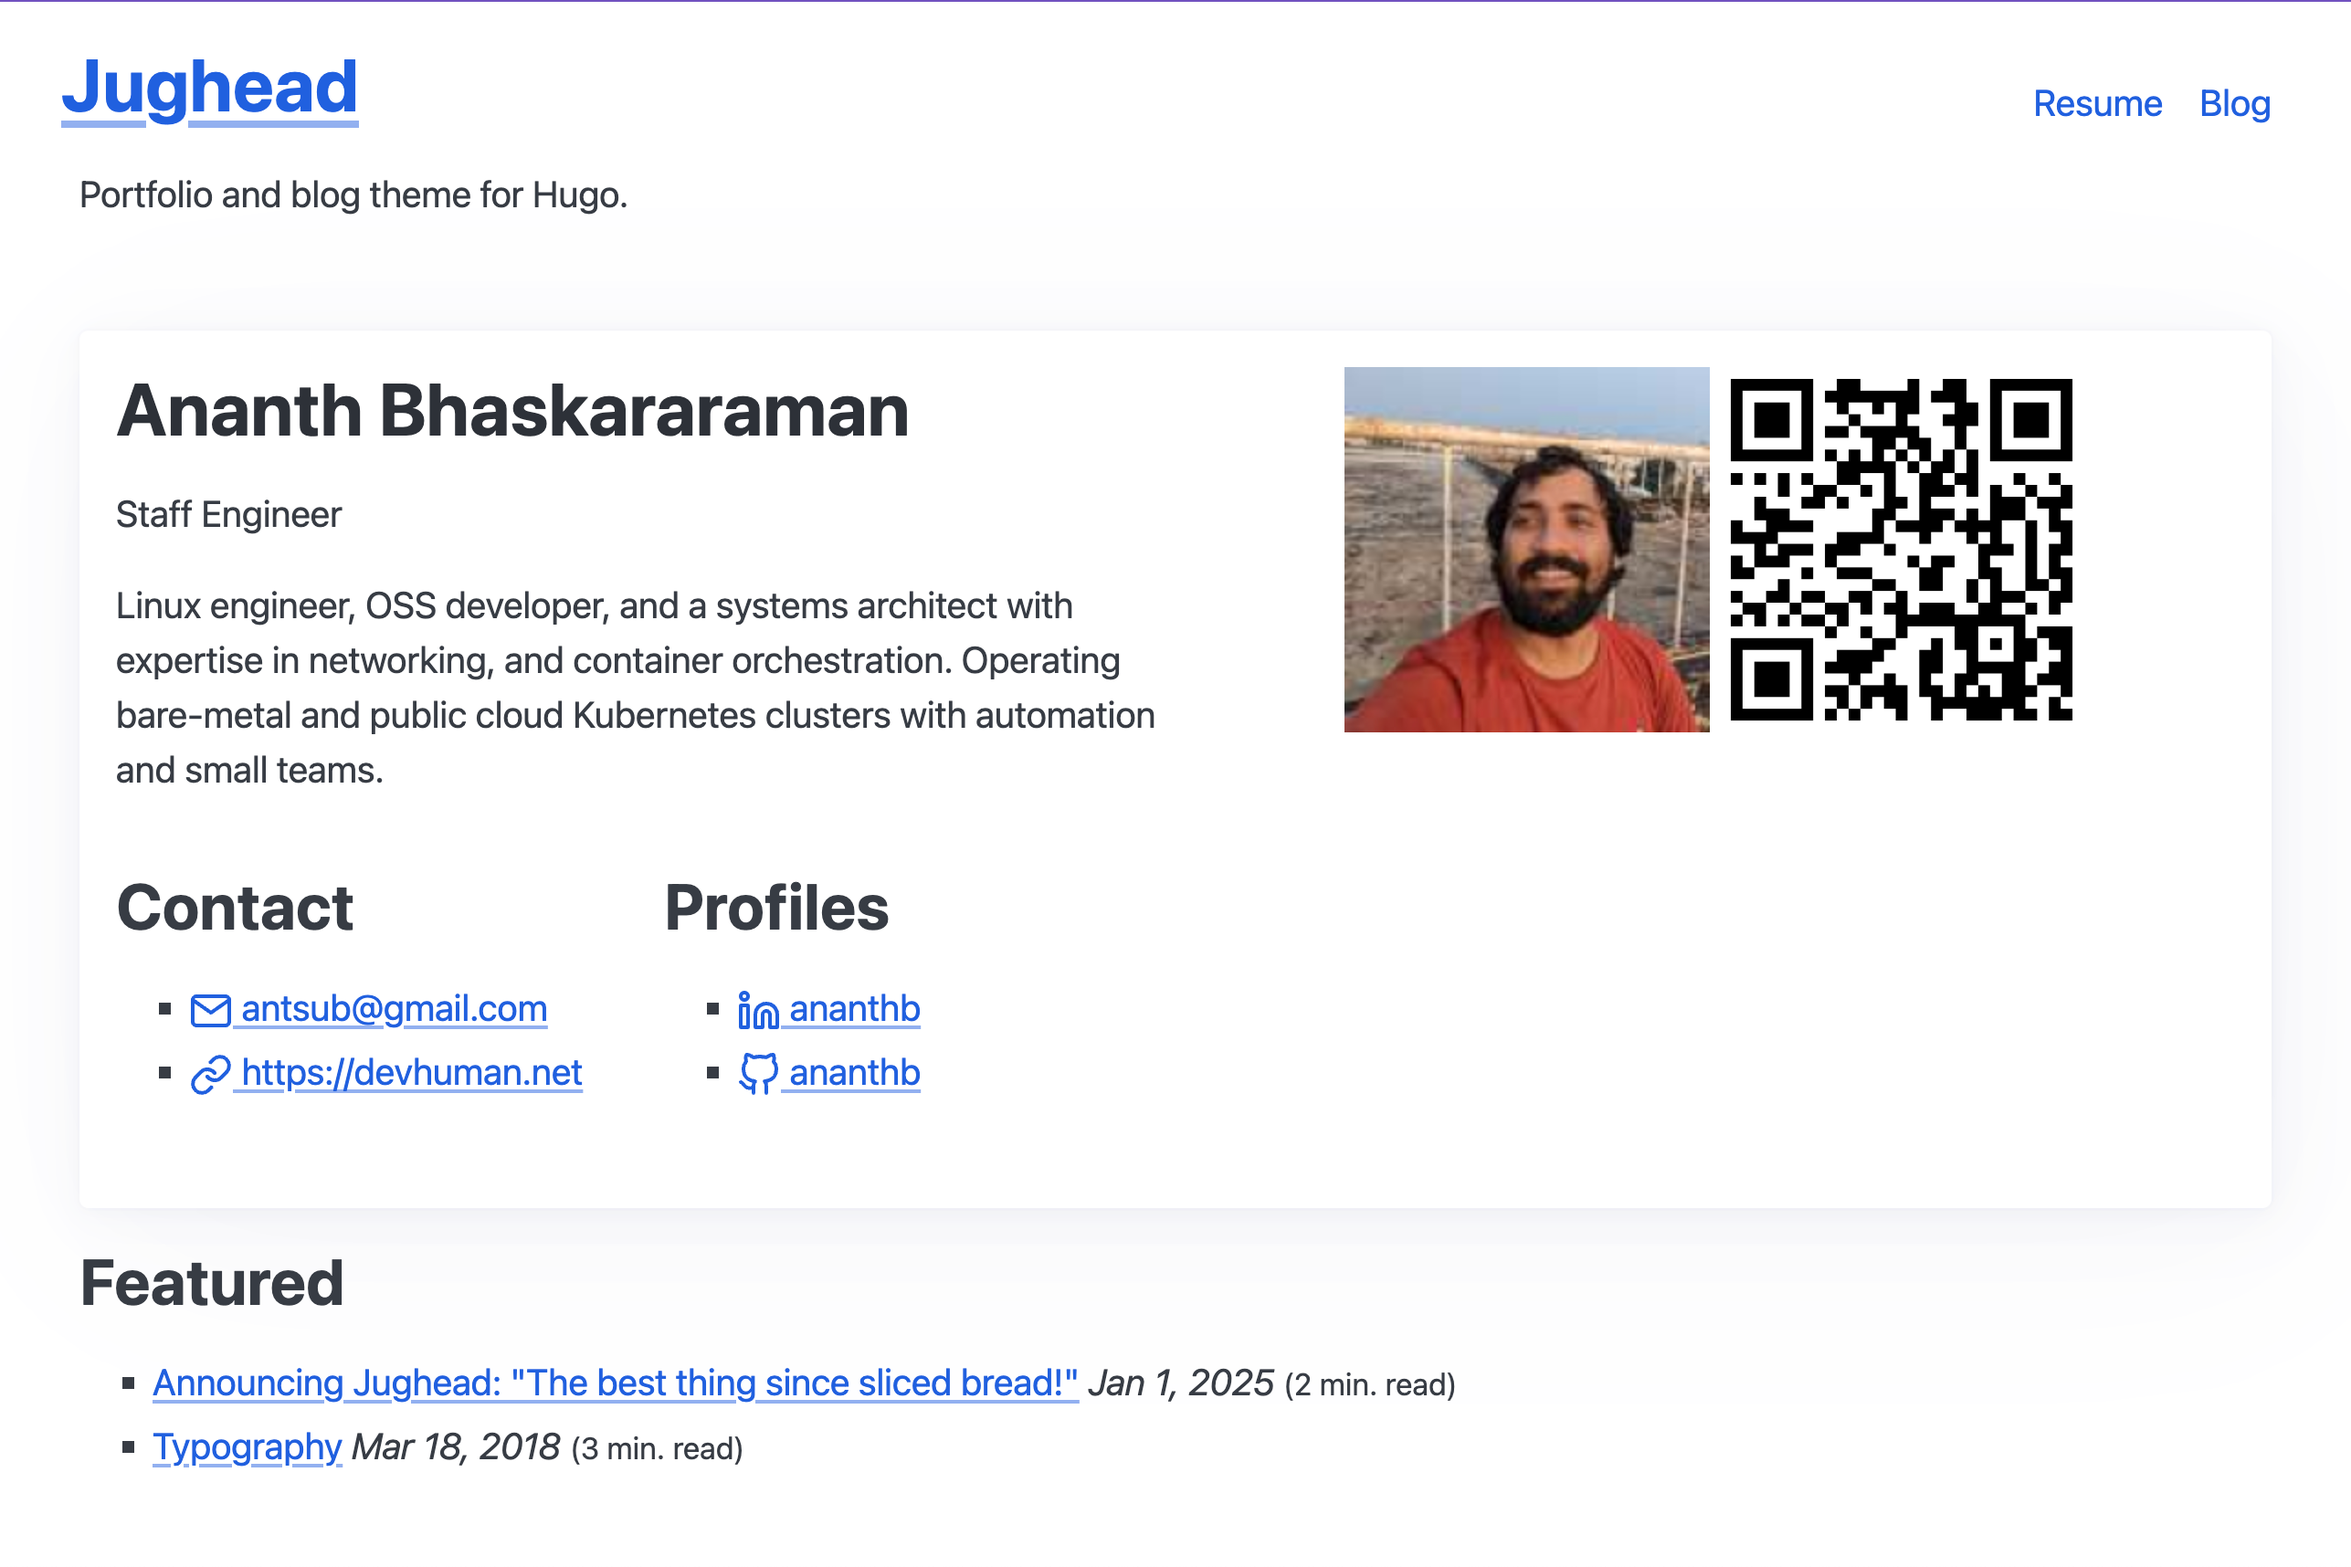
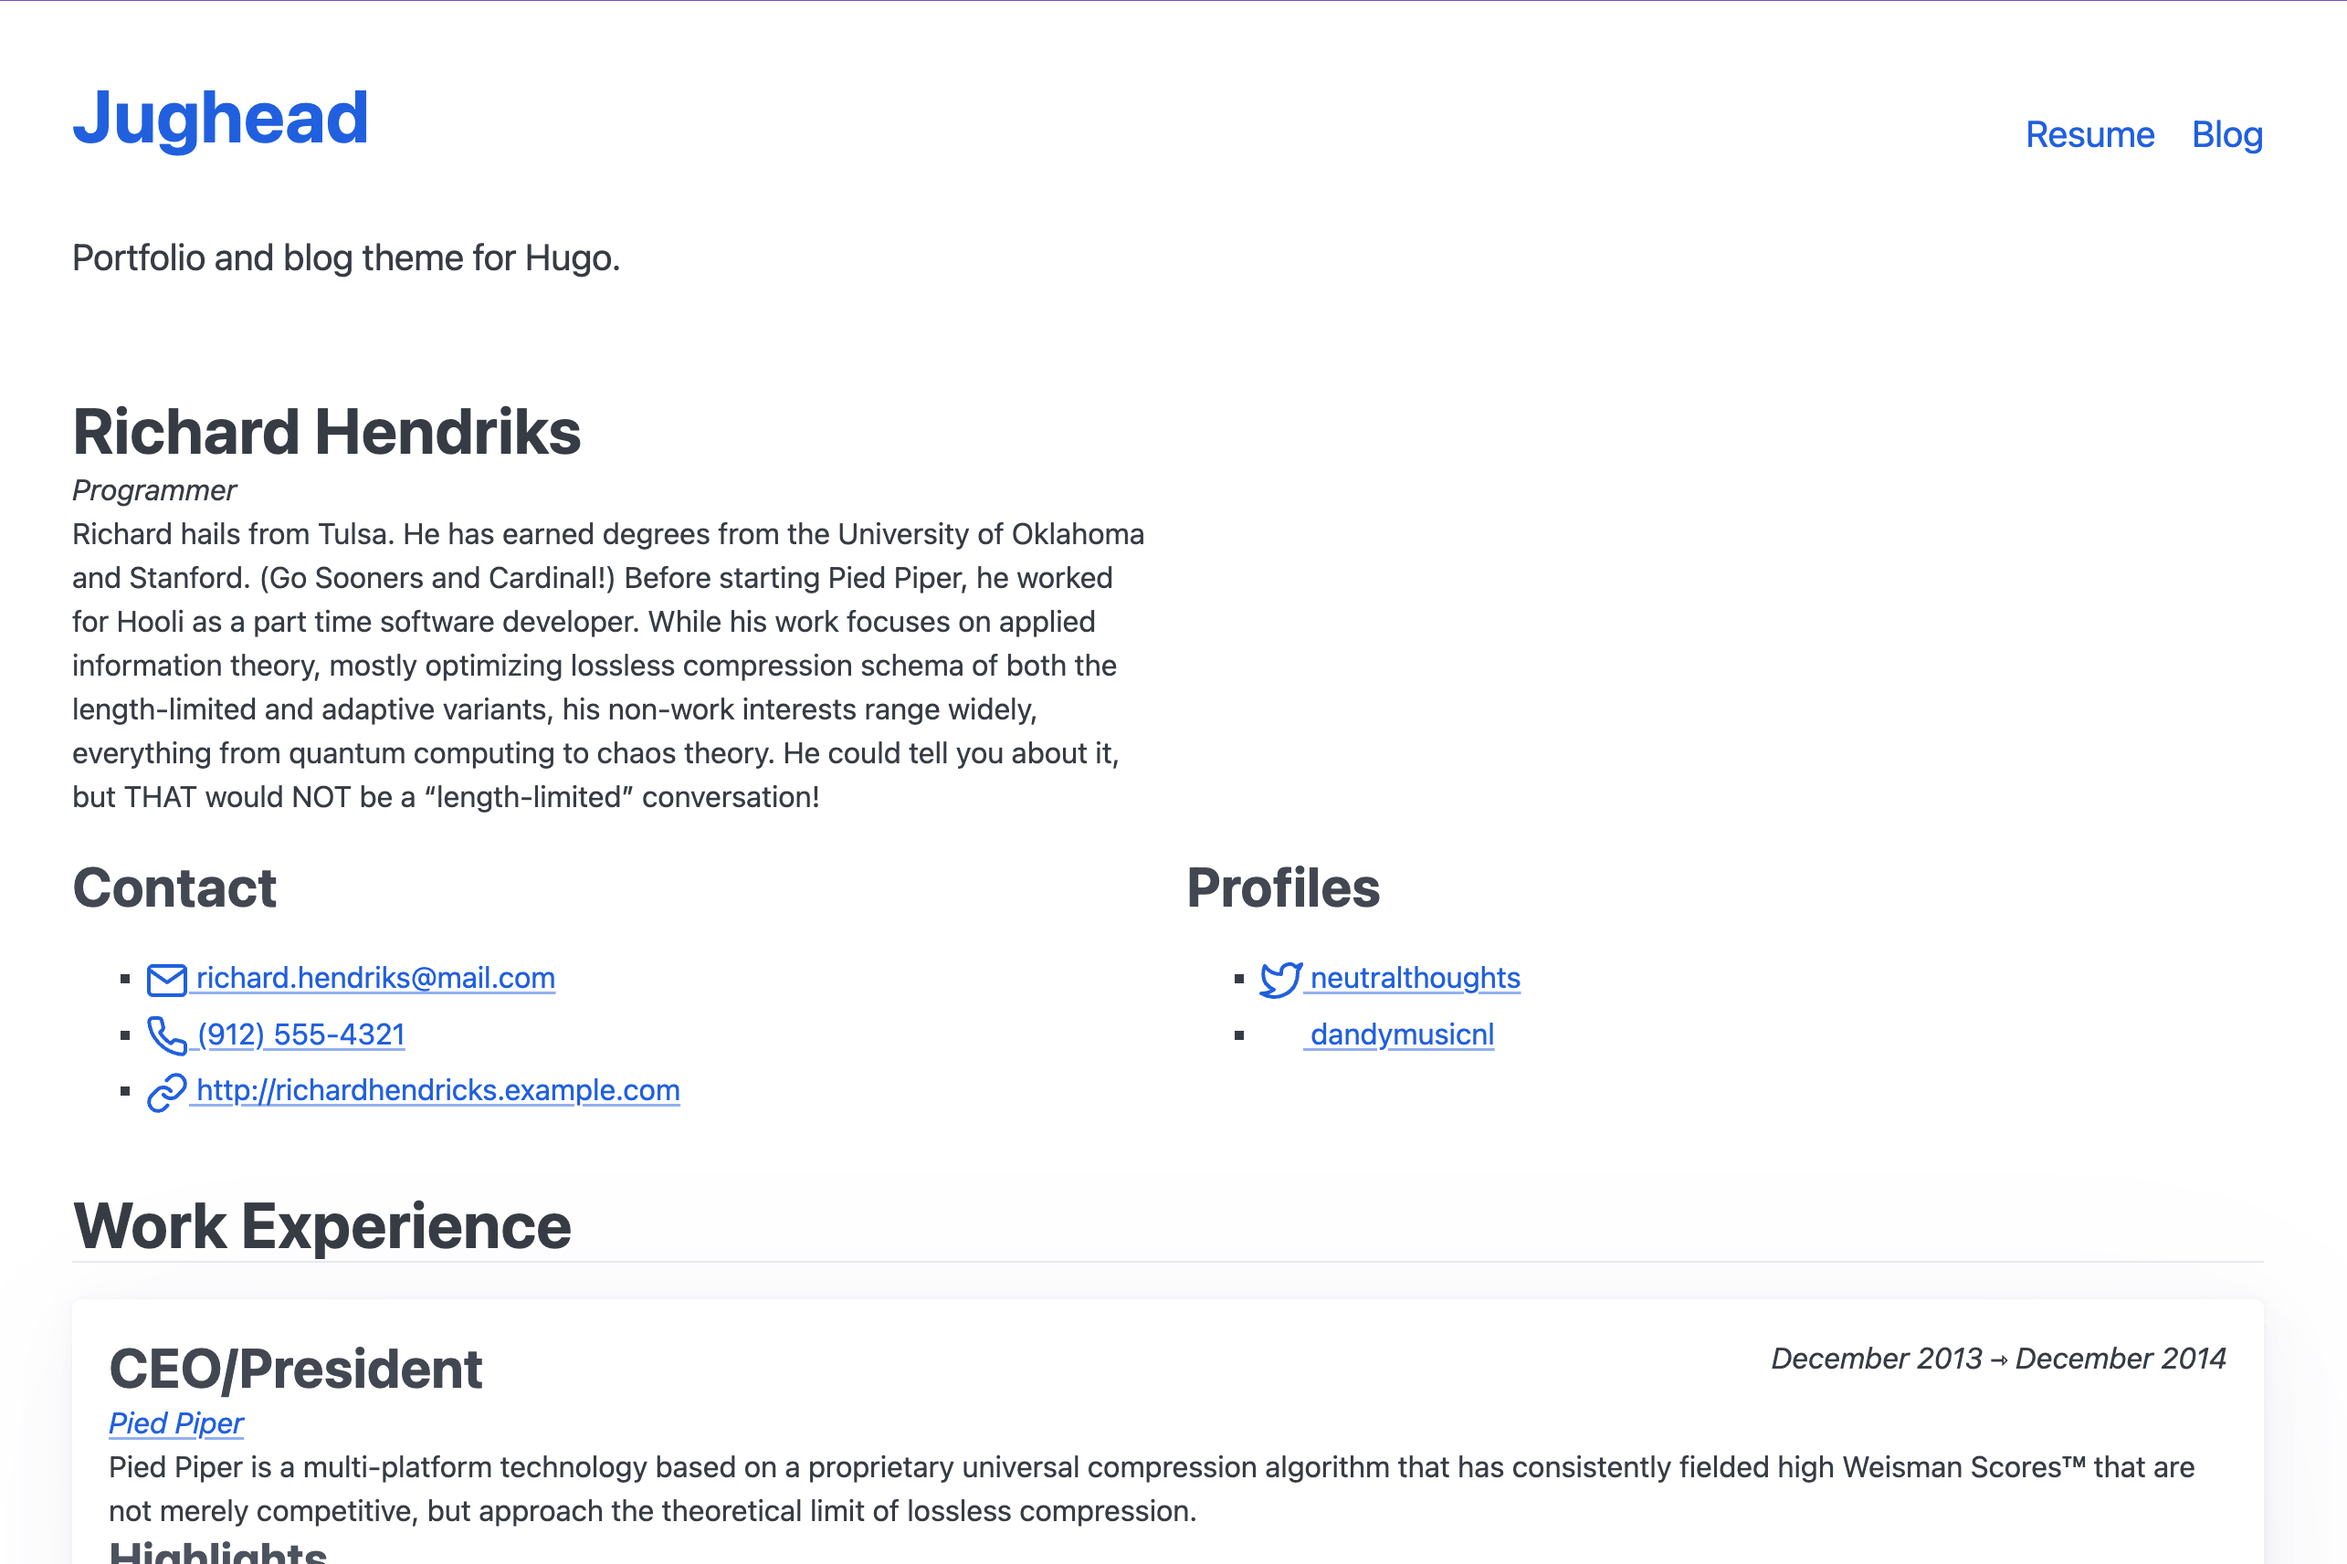
Add all remaining resume sections

diff --git a/layouts/_default/resume.html b/layouts/_default/resume.html
@@ -1,0 +1,53 @@
+{{ define "main" }}
+  {{ with partial "resume/get.html" . }}
+    <div class="resume">
+      <section>
+        {{ partial "resume/basics.html" . }}
+      </section>
+
+      <section>
+        {{ partial "resume/work.html" . }}
+      </section>
+
+      <section>
+        {{ partial "resume/volunteer.html" . }}
+      </section>
+
+      <section>
+        {{ partial "resume/education.html" . }}
+      </section>
+
+      <section>
+        {{ partial "resume/awards.html" . }}
+      </section>
+
+      <section>
+        {{ partial "resume/certificates.html" . }}
+      </section>
+
+      <section>
+        {{ partial "resume/publications.html" . }}
+      </section>
+
+      <section>
+        {{ partial "resume/skills.html" . }}
+      </section>
+
+      <section>
+        {{ partial "resume/languages.html" . }}
+      </section>
+
+      <section>
+        {{ partial "resume/interests.html" . }}
+      </section>
+
+      <section>
+        {{ partial "resume/references.html" . }}
+      </section>
+
+      <section>
+        {{ partial "resume/projects.html" . }}
+      </section>
+    </div>
+  {{ end }}
+{{ end }}

diff --git a/layouts/partials/resume/volunteer.html b/layouts/partials/resume/volunteer.html
@@ -1,0 +1,43 @@
+{{ with .volunteer }}
+  <h2>{{ T "volunteer" | title }}</h2>
+  <hr />
+  {{ range $job := . }}
+    <article>
+      <div class="grid">
+        <div>
+          {{ with .position }}
+            <h3>{{ . }}</h3>
+          {{ end }}
+          {{ with .organization }}
+            <p>
+              <em>
+                {{ with $job.url }}
+                  <a href="{{ . }}" target="_blank">{{ $job.organization }}</a>
+                {{ else }}
+                  {{ . }}
+                {{ end }}
+              </em>
+            </p>
+          {{ end }}
+        </div>
+        <p align="right">
+          <em>{{ partial "resume/start-end-times.html" . }}</em>
+        </p>
+      </div>
+      <div>
+        {{ with .summary }}
+          <p>{{ . }}</p>
+        {{ end }}
+
+        {{ with .highlights }}
+          <h4>{{ T "highlight" | title }}</h4>
+          <ul>
+            {{ range . }}
+              <li>{{ . }}</li>
+            {{ end }}
+          </ul>
+        {{ end }}
+      </div>
+    </article>
+  {{ end }}
+{{ end }}

diff --git a/layouts/partials/resume/projects.html b/layouts/partials/resume/projects.html
@@ -1,0 +1,27 @@
+{{ with .projects }}
+  <h2>{{ T "project" | title }}</h2>
+  <hr />
+  {{ range $proj := . }}
+    <div class="grid">
+      <div>
+        {{ with .name }}
+          <h3>{{ . }}</h3>
+        {{ end }}
+        {{ with .description }}
+          <p>{{ . }}</p>
+        {{ end }}
+        {{ with .highlights }}
+          <h4>{{ T "highlight" | title }}</h4>
+          {{ range . }}
+            <ul>
+              <li><p>{{ . }}</p></li>
+            </ul>
+          {{ end }}
+        {{ end }}
+      </div>
+      <p align="right">
+        <em>{{ partial "resume/start-end-times.html" . }}</em>
+      </p>
+    </div>
+  {{ end }}
+{{ end }}

diff --git a/layouts/partials/resume/certificates.html b/layouts/partials/resume/certificates.html
@@ -1,0 +1,25 @@
+{{ with .certificates }}
+  <h2>{{ T "certificate" | title }}</h2>
+  <hr />
+  {{ range $cert := . }}
+    <div class="grid">
+      <div>
+        {{ with .name }}
+          <h3>
+            {{ with $cert.url }}
+              <a href="{{ . }}" target="_blank">{{ $cert.name }}</a>
+            {{ else }}
+              {{ . }}
+            {{ end }}
+          </h3>
+        {{ end }}
+        {{ with .issuer }}
+          <p><em>{{ . }}</em></p>
+        {{ end }}
+      </div>
+      <p align="right">
+        <em>{{ partial "resume/date-time.html" . }}</em>
+      </p>
+    </div>
+  {{ end }}
+{{ end }}

diff --git a/layouts/partials/resume/publications.html b/layouts/partials/resume/publications.html
@@ -1,0 +1,25 @@
+{{ with .publications }}
+  <h2>{{ T "publication" | title }}</h2>
+  <hr />
+  {{ range $pub := . }}
+    <div class="grid">
+      <div>
+        {{ with .name }}
+          <h3>
+            {{ with $pub.url }}
+              <a href="{{ . }}" target="_blank">{{ $pub.name }}</a>
+            {{ else }}
+            {{ end }}
+            {{ . }}
+          </h3>
+        {{ end }}
+        {{ with .publisher }}
+          <p><em>{{ . }}</em></p>
+        {{ end }}
+      </div>
+      <p align="right">
+        <em>{{ partial "resume/date-time.html" . }}</em>
+      </p>
+    </div>
+  {{ end }}
+{{ end }}

diff --git a/layouts/partials/resume/awards.html b/layouts/partials/resume/awards.html
@@ -1,0 +1,19 @@
+{{ with .awards }}
+  <h2>{{ T "award" | title }}</h2>
+  <hr />
+  {{ range . }}
+    <div class="grid">
+      <div>
+        {{ with .title }}
+          <h3>{{ . }}</h3>
+        {{ end }}
+        {{ with .awarder }}
+          <p><em>{{ . }}</em></p>
+        {{ end }}
+      </div>
+      <p align="right">
+        <em>{{ partial "resume/date-time.html" . }}</em>
+      </p>
+    </div>
+  {{ end }}
+{{ end }}

diff --git a/layouts/partials/resume/references.html b/layouts/partials/resume/references.html
@@ -1,0 +1,14 @@
+{{ with .references }}
+  <h2>{{ T "reference" | title }}</h2>
+  <hr />
+  {{ range $ref := . }}
+    <div>
+      {{ with .name }}
+        <h3>{{ . }}</h3>
+      {{ end }}
+      {{ with .reference }}
+        <blockquote><p>{{ . }}</p></blockquote>
+      {{ end }}
+    </div>
+  {{ end }}
+{{ end }}

diff --git a/layouts/_default/resume-baseof.html b/layouts/_default/resume-baseof.html
@@ -1,0 +1,11 @@
+<!doctype html>
+<html lang="{{ .Site.Language.Lang | default "en" }}">
+  <head>
+    {{ partial "head.html" . }}
+  </head>
+
+  <body>
+    <header class="container">{{ partial "header.html" . }}</header>
+    <main class="container">{{ block "main" . }}{{ end }}</main>
+  </body>
+</html>

diff --git a/layouts/partials/katex.html b/layouts/partials/katex.html
@@ -37,9 +37,7 @@
     }
   }
   {{ end }}
-</script>
-
-<script type="module">
+</script><script type="module">
   import katex from {{ $katexJs.RelPermalink }};
   import renderMathInElement from {{ $katexAutoRenderJs.RelPermalink }};
 

diff --git a/layouts/partials/resume/date-time.html b/layouts/partials/resume/date-time.html
@@ -1,0 +1,6 @@
+{{ with .date }}
+  {{ time . | dateFormat "January 2006" }}
+{{ end }}
+{{ with .releaseDate }}
+  {{ time . | dateFormat "January 2006" }}
+{{ end }}

diff --git a/README.md b/README.md
@@ -17,10 +17,10 @@ Source code for the demo site is available in [https://github.com/ananthb/jughea
 
 ![Home](https://raw.githubusercontent.com/ananthb/jughead/main/images/screenshot.png)
 ![Home Dark](https://raw.githubusercontent.com/ananthb/jughead/main/images/screenshot-dark.png)
-![Typography](https://raw.githubusercontent.com/ananthb/jughead/main/images/typography.png)
-![Typography Dark](https://raw.githubusercontent.com/ananthb/jughead/main/images/typography-dark.png)
-![Mobile](https://raw.githubusercontent.com/ananthb/jughead/main/images/mobile.png)
-![Mobile Dark](https://raw.githubusercontent.com/ananthb/jughead/main/images/mobile-dark.png)
+![Typography](https://raw.githubusercontent.com/ananthb/jughead/main/images/screenshot-typography.png)
+![Typography Dark](https://raw.githubusercontent.com/ananthb/jughead/main/images/screenshot-typography-dark.png)
+![Mobile](https://raw.githubusercontent.com/ananthb/jughead/main/images/screenshot-mobile.png)
+![Mobile Dark](https://raw.githubusercontent.com/ananthb/jughead/main/images/screenshot-mobile-dark.png)
 
 </details>
 
@@ -57,7 +57,6 @@ resume's URL.
 jsonResumeRegistrySlug = "your-github-username"
 ```
 
-
 You can also render a local `resume.json` file by placing it in the
 `data` directory of your site.
 
@@ -67,11 +66,11 @@ This will add a basic portfolio section from your resume to your site's
 homepage.
 
 You can also render your resume in any page in your site
-by creating a new empty page and setting its type to `resume` in frontmatter.
+by creating a new empty page and setting its layout to `resume` in frontmatter.
 
 ```markdown
 +++
-type = "resume"
+layout = "resume"
 date = "2025-01-01"
 +++
 ```

diff --git a/exampleSite/content/resume.md b/exampleSite/content/resume.md
@@ -1,4 +1,4 @@
 +++
-type = "resume"
+layout = "resume"
 date = "2025-01-01"
 +++
